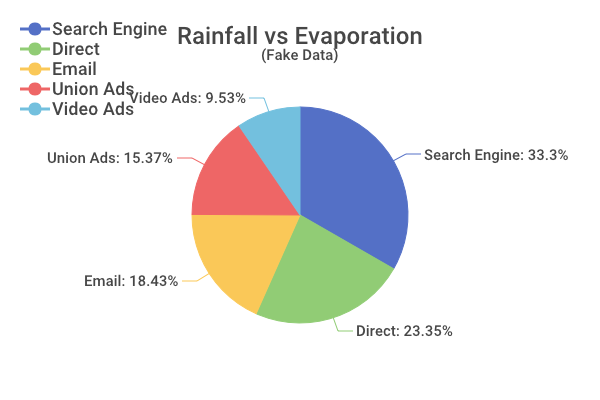
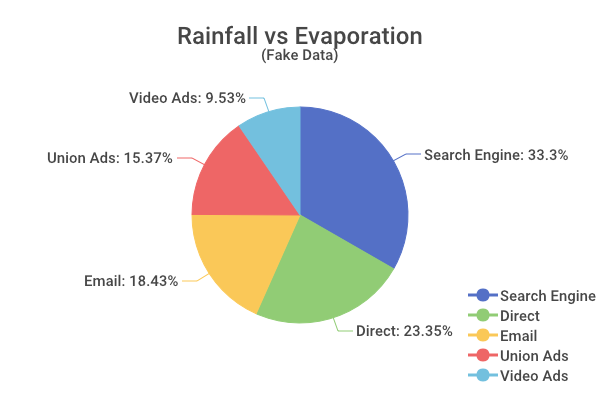
Update pie chart example legend position

Changed region(s): [[0.03, 0.06, 0.3, 0.3], [0.78, 0.72, 1.0, 0.96]]

diff --git a/examples/pie_chart-1/main.go b/examples/pie_chart-1/main.go
@@ -49,7 +49,6 @@ func main() {
 			Left:   20,
 		}),
 		charts.LegendOptionFunc(charts.LegendOption{
-			Vertical: true,
 			Data: []string{
 				"Search Engine",
 				"Direct",
@@ -57,9 +56,13 @@ func main() {
 				"Union Ads",
 				"Video Ads",
 			},
-			Offset: charts.OffsetLeft,
+			Vertical: true,
+			Offset: charts.OffsetStr{
+				Left: "80%",
+				Top:  "75%",
+			},
 			FontStyle: charts.FontStyle{
-				FontSize: 12,
+				FontSize: 10,
 			},
 		}),
 		charts.PieSeriesShowLabel(),

diff --git a/examples/README.md b/examples/README.md
@@ -11,7 +11,7 @@ Examples are our primary method for demonstrating the starting point our use and
 * [line_chart-1](./line_chart-1) - Basic line chart with some simple styling changes and a demonstration of `null` values.
 * [line_chart-2](./line_chart-2) - Line chart with dense data and more custom styling configured.
 * [line_chart-area](./line_chart-area) - Example line chart with the area below the line shaded.
-* [pie_chart-1](./pie_chart-1) - Pie chart with a variety of customization demonstrated.
+* [pie_chart-1](./pie_chart-1) - Pie chart with a variety of customization demonstrated including positioning the legend in the bottom right corner.
 * [radar_chart-1](./radar_chart-1) - Basic radar chart.
 * [table-1](./table-1) - Table with a variety of table specific configuration and styling demonstrated.
 * [web-1](./web-1) - Hosts an example http server which will render the charts to the web page.
